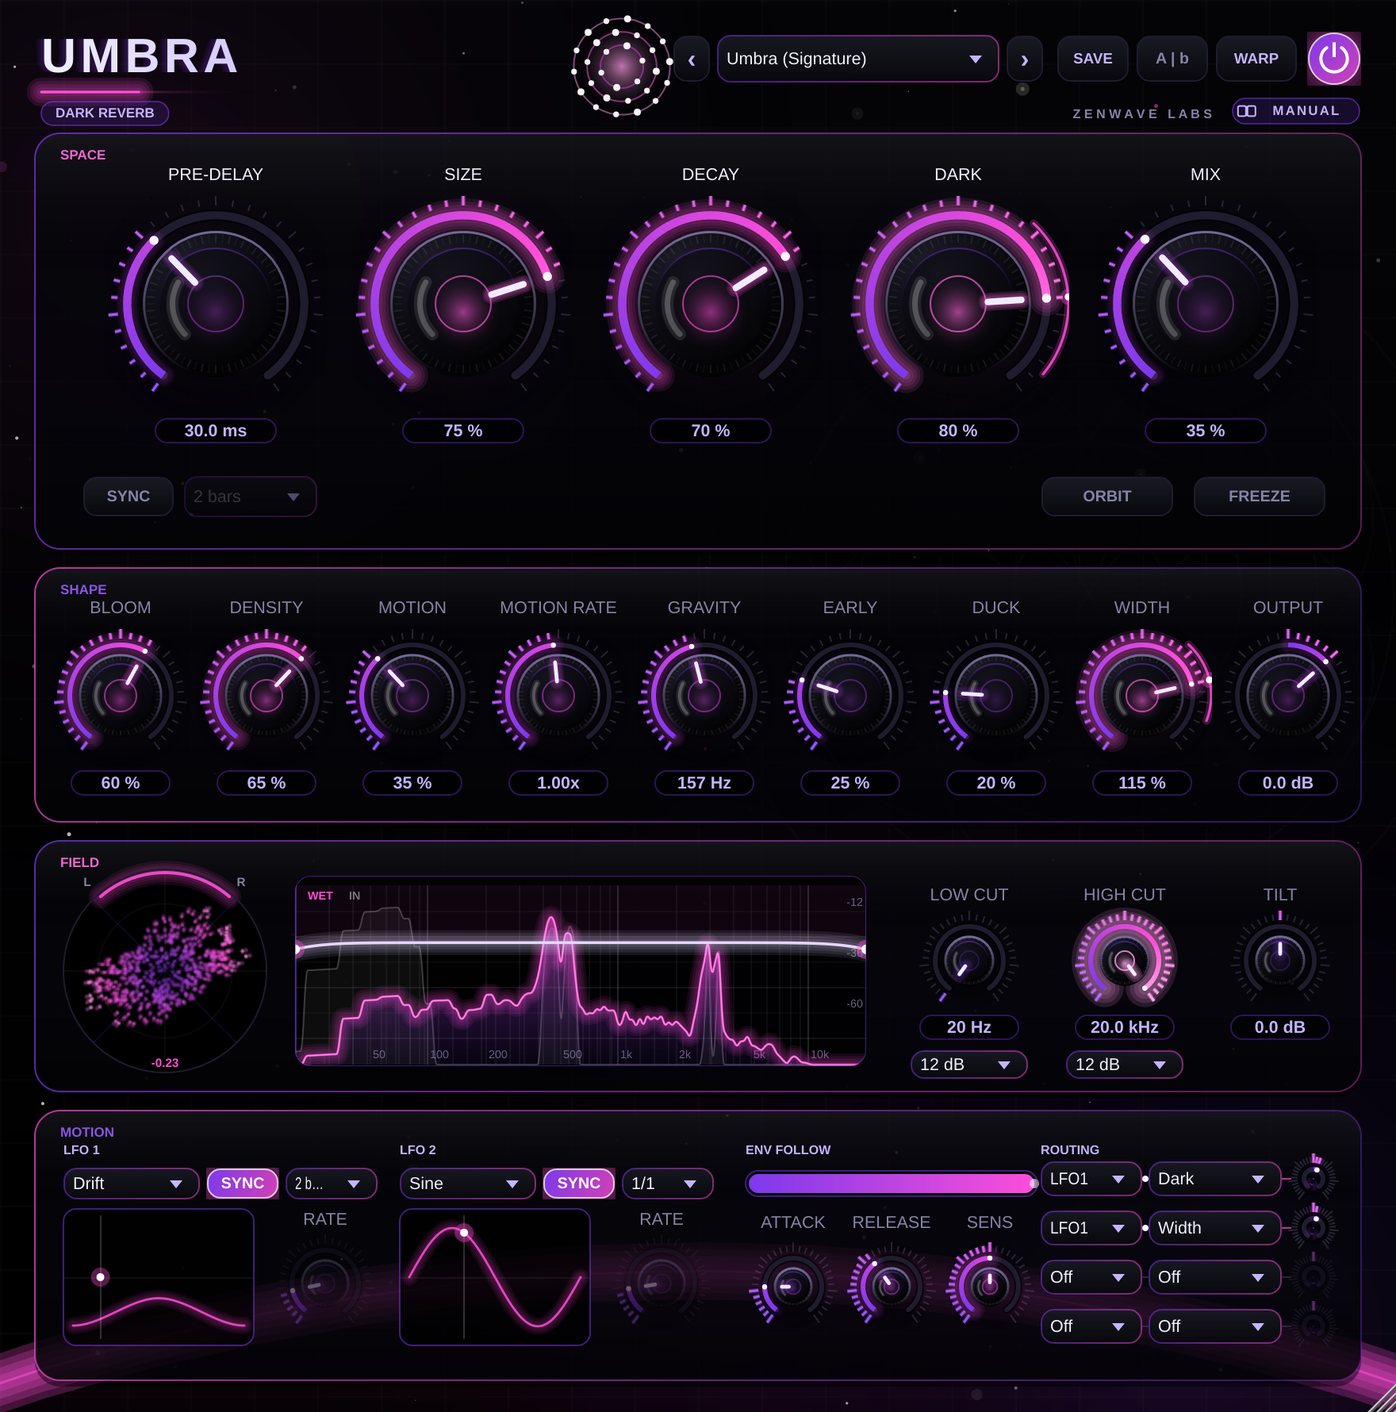
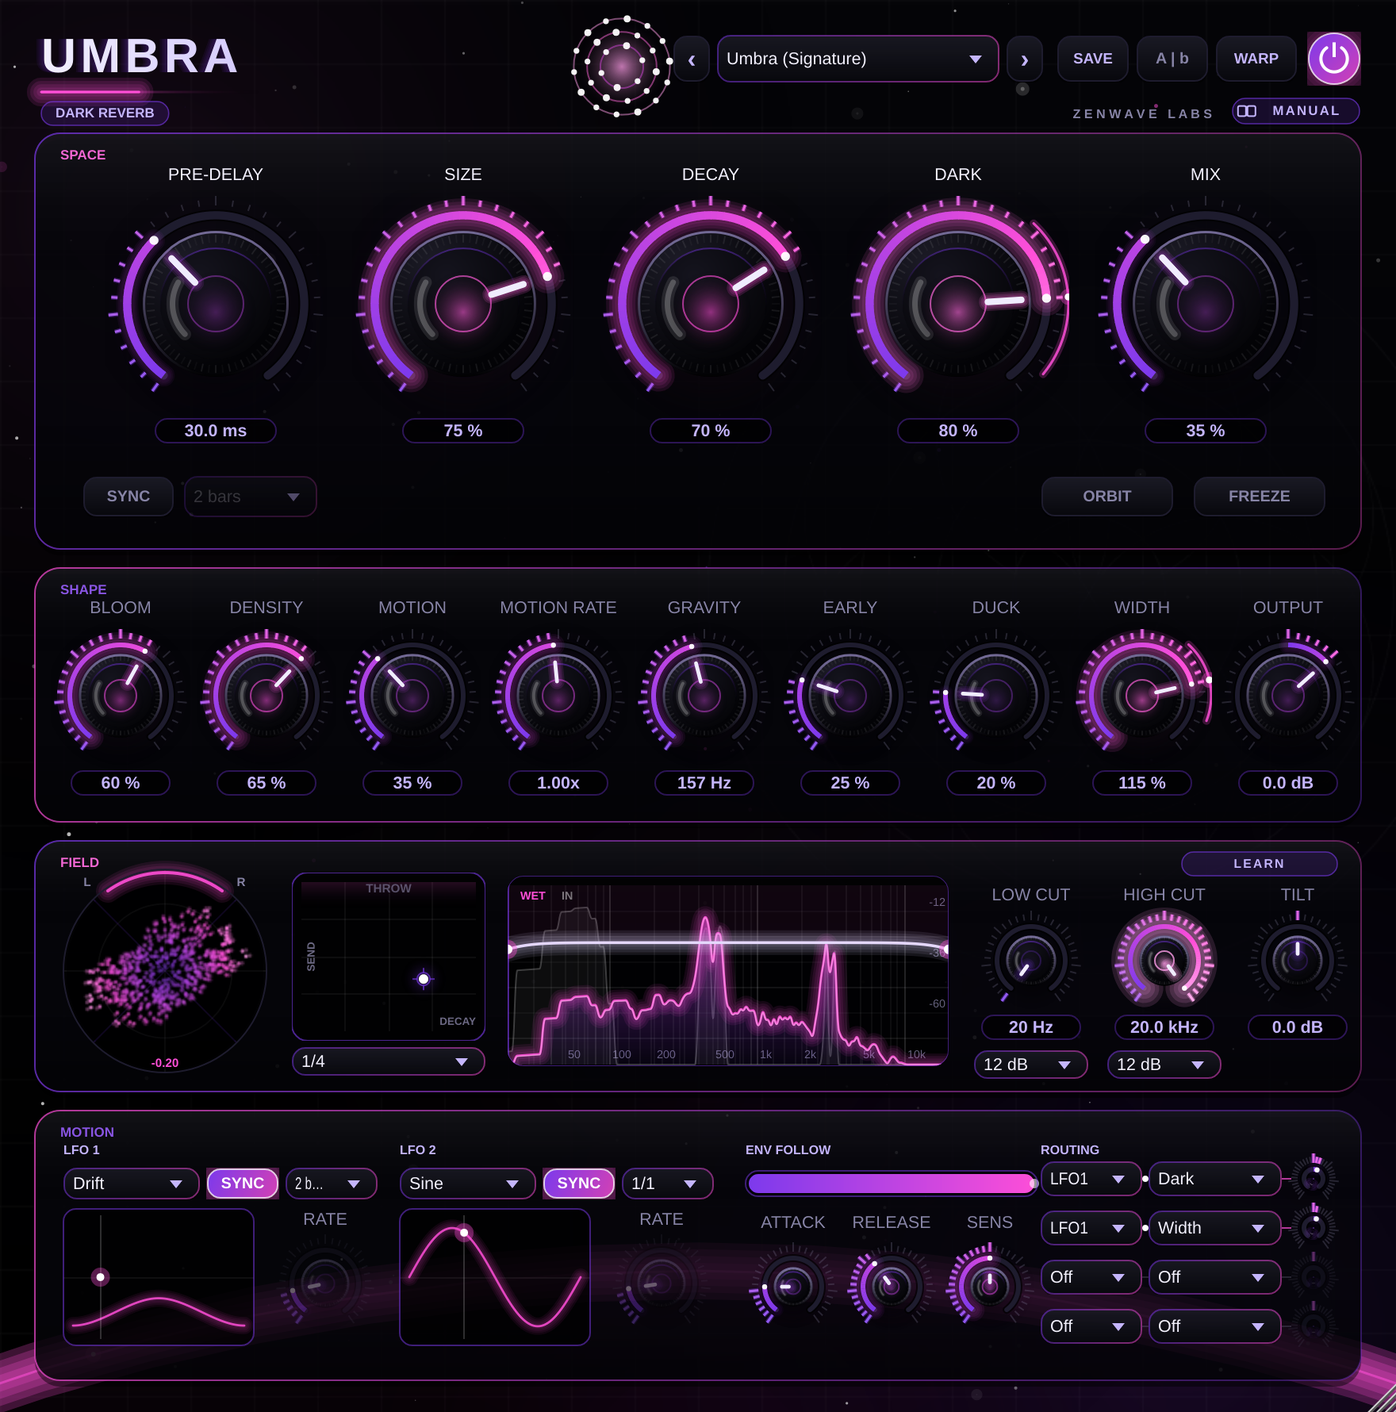
LEARN (auto-place cuts/Gravity from the track), Umbra perform pad (decay x send), chip glyph fix
Claude-Session: https://claude.ai/code/session_017QkTniK1NEuAZXzt6zeDH9

Changed region(s): [[0.1875, 0.5871, 0.9688, 0.7725]]

diff --git a/plugins/umbra/src/PluginEditor.cpp b/plugins/umbra/src/PluginEditor.cpp
@@ -40,7 +40,15 @@ UmbraAudioProcessorEditor::UmbraAudioProcessorEditor(UmbraAudioProcessor& p)
 
     addAndMakeVisible(presetBar);
     addAndMakeVisible(modPanel);
+    addAndMakeVisible(pad);
+    addAndMakeVisible(glideBox); glideBox.addItemList(zwui::PadIDs::glideNames(), 1);
+    glideBox.setTooltip("Glide: how long the pad takes to return home after you let go (synced)");
+    glideAttach = std::make_unique<juce::AudioProcessorValueTreeState::ComboBoxAttachment>(processor.apvts, zwui::PadIDs::glide, glideBox);
     addAndMakeVisible(orbitButton);
+    addAndMakeVisible(learnButton);
+    learnButton.getProperties().set("chip", true);
+    learnButton.setTooltip("Learn: play the track for 6 seconds. Sets the wet Low Cut just above your sub and the High Cut where your top end ends" + juce::String(""" + (' , and Gravity under the sub' if plug=='umbra' else '') + """) + ", so the effect sits in this track.");
+    learnButton.onClick = [this] { if (! learner.isActive()) learner.start(6.0f); };
     orbitAttach = std::make_unique<juce::AudioProcessorValueTreeState::ButtonAttachment>(processor.apvts, zwui::OrbitBus::orbitParamId, orbitButton);
     orbitButton.setTooltip("Orbit: link with every other ZenWave plugin that has Orbit on. Freeze one, freeze them all - Drift's loop and Umbra's tail lock together.");
     allKnobs = { &preDelay, &size, &decay, &dark, &mix, &density, &motion, &gravity, &early, &duck, &width, &output, &motionRate, &bloom, &lowCut, &highCut, &tilt };
@@ -48,7 +56,7 @@ UmbraAudioProcessorEditor::UmbraAudioProcessorEditor(UmbraAudioProcessor& p)
 
     // Built-in manual + tooltips
     addAndMakeVisible(helpButton);
-    helpButton.getProperties().set("chip", true);
+    helpButton.getProperties().set("chip", true); helpButton.getProperties().set("book", true);
     helpButton.setTooltip("Manual: what every knob does, quick start and recipes");
     helpButton.onClick = [this] { manual.show(); };
     addChildComponent(manual);
@@ -113,6 +121,10 @@ void UmbraAudioProcessorEditor::timerCallback()
     scope.update(processor.stereo);
     presetBar.sync();
     modPanel.tick();
+    if (learner.feed(analyserIn.levels, dt)) applyLearn();
+    pad.setHome(float(decay.slider.getValue()), float(mix.slider.getValue()));
+    pad.tick();
+    learnButton.setButtonText(learner.isActive() ? "LEARNING " + juce::String(int(learner.progress() * 100)) + "%" : "LEARN");
     { const int n = processor.orbitLink.peers.load(); orbitButton.setButtonText(orbitButton.getToggleState() && n > 1 ? "ORBIT x" + juce::String(n) : "ORBIT"); }
     syncModRings();
     const bool msync = motionSyncButton.getToggleState();
@@ -137,7 +149,7 @@ void UmbraAudioProcessorEditor::paint(juce::Graphics& g)
     scope.draw(g, juce::Rectangle<float>(40 * s, 548 * s, 128 * s, 128 * s), lnf.accent, lnf.accent2, processor.motion.pulse);
     zwui::EqCurve eq { float(lowCut.slider.getValue()), float(highCut.slider.getValue()),
                        juce::jmax(0, lowSlopeBox.getSelectedId() - 1), juce::jmax(0, highSlopeBox.getSelectedId() - 1), float(tilt.slider.getValue()) };
-    zwui::drawEqField(g, juce::Rectangle<float>(186 * s, 552 * s, 360 * s, 120 * s), analyser, &analyserIn, eq, lnf.accent, lnf.accent2, processor.motion.pulse);
+    zwui::drawEqField(g, juce::Rectangle<float>(320 * s, 552 * s, 278 * s, 120 * s), analyser, &analyserIn, eq, lnf.accent, lnf.accent2, processor.motion.pulse);
     zwui::drawOrbit(g, { 392 * s, 42 * s }, 24 * s, processor.motion, lnf.accent, lnf.accent2);
 }
 
@@ -153,6 +165,7 @@ void UmbraAudioProcessorEditor::resized()
     powerButton.setBounds(S(824), S(20), S(34), S(34));
     freezeButton.setBounds(S(752), S(300), S(84), S(26));
     orbitButton.setBounds(S(656), S(300), S(84), S(26));
+    learnButton.setBounds(S(744), S(536), S(100), S(17));
     modPanel.setBounds(S(22), S(700), S(836), S(170));
     modPanel.layoutScaled(s);
 
@@ -167,9 +180,22 @@ void UmbraAudioProcessorEditor::resized()
     x = S(32);
     for (auto* k : smalls) { k->layout(x, S(392), S(88), S(110), S(14)); x += S(92); }
 
+    pad.setBounds(S(184), S(550), S(122), S(106));
+    glideBox.setBounds(S(184), S(660), S(122), S(18));
     zwui::Knob* tone[] = { &lowCut, &highCut, &tilt };
-    x = S(566);
-    for (auto* k : tone) { k->layout(x, S(572), S(90), S(84), S(12)); x += S(98); }
-    lowSlopeBox.setBounds(S(574), S(662), S(74), S(18));
-    highSlopeBox.setBounds(S(672), S(662), S(74), S(18));
+    x = S(610);
+    for (auto* k : tone) { k->layout(x, S(572), S(80), S(84), S(12)); x += S(84); }
+    lowSlopeBox.setBounds(S(614), S(662), S(72), S(18));
+    highSlopeBox.setBounds(S(698), S(662), S(72), S(18));
+}
+
+void UmbraAudioProcessorEditor::applyLearn()
+{
+    const auto r = learner.result;
+    if (! r.valid) return;
+    auto set = [this](const char* id, float plain) { if (auto* p = processor.apvts.getParameter(id)) { p->beginChangeGesture(); p->setValueNotifyingHost(p->convertTo0to1(plain)); p->endChangeGesture(); } };
+    set(ParamIDs::lowCut,  juce::jlimit(20.0f, 400.0f, r.subHz * 1.6f));          // repeats/tails stay off the sub
+    set(ParamIDs::highCut, juce::jlimit(3000.0f, 20000.0f, r.rollOffHz * 0.85f)); // nothing above where the track ends
+    set(ParamIDs::lowSlope, 2.0f);
+    set(ParamIDs::gravity, juce::jlimit(0.0f, 1.0f, (r.subHz * 1.5f - 40.0f) / 260.0f));   // 0..1 -> 40..300 Hz, sub passes dry
 }

diff --git a/libs/zenwave_ui/include/zenwave_ui/ZenWaveUI.h b/libs/zenwave_ui/include/zenwave_ui/ZenWaveUI.h
@@ -341,14 +341,18 @@ public:
             const float h = r.getHeight(), bx = r.getX() + h * 0.55f, by = r.getCentreY();
             const auto col = hover || down ? juce::Colours::white : accentHi;
             g.setColour(col);
-            juce::Path book;
-            book.addRoundedRectangle(bx - 5.5f, by - 3.2f, 5.0f, 6.4f, 1.0f);
-            book.addRoundedRectangle(bx + 0.5f, by - 3.2f, 5.0f, 6.4f, 1.0f);
-            g.strokePath(book, juce::PathStrokeType(1.0f));
-            g.drawLine(bx, by - 3.2f, bx, by + 3.2f, 1.0f);
+            const bool book = bool(b.getProperties()["book"]);
+            if (book)
+            {
+                juce::Path bk;
+                bk.addRoundedRectangle(bx - 5.5f, by - 3.2f, 5.0f, 6.4f, 1.0f);
+                bk.addRoundedRectangle(bx + 0.5f, by - 3.2f, 5.0f, 6.4f, 1.0f);
+                g.strokePath(bk, juce::PathStrokeType(1.0f));
+                g.drawLine(bx, by - 3.2f, bx, by + 3.2f, 1.0f);
+            }
             juce::Font f(juce::FontOptions(h * 0.52f, juce::Font::bold)); f.setExtraKerningFactor(0.12f);
             g.setFont(f);
-            g.drawText(b.getButtonText(), r.withTrimmedLeft(h * 1.1f).withTrimmedRight(h * 0.35f), juce::Justification::centred);
+            g.drawText(b.getButtonText(), book ? r.withTrimmedLeft(h * 1.1f).withTrimmedRight(h * 0.35f) : r, juce::Justification::centred);
             return;
         }
         g.setFont(juce::Font(juce::FontOptions(b.getButtonText().length() <= 1 ? 18.0f : 10.5f, juce::Font::bold)));
@@ -686,6 +690,47 @@ private:
 };
 
 struct EqCurve { float lowCutHz, highCutHz; int lowSlope, highSlope; float tilt; };
+
+// LEARN: listens to the dry input for a few seconds and finds where the sub fundamental sits and
+// where the top end rolls off, so the plugin can place its cuts (and Gravity) around *this* track.
+class Learner
+{
+public:
+    struct Result { float subHz = 50.0f, rollOffHz = 16000.0f; bool valid = false; };
+    void start(float seconds) { avg.fill(0.0f); frames = 0; target = seconds; elapsed = 0.0f; active = true; }
+    bool isActive() const { return active; }
+    float progress() const { return active ? juce::jlimit(0.0f, 1.0f, elapsed / target) : 0.0f; }
+    // Feed the input analyser's bins each editor tick; returns true on the tick learning completes
+    bool feed(const std::array<float, SpectrumAnalyser::kBins>& levels, float dt)
+    {
+        if (! active) return false;
+        for (int b = 0; b < SpectrumAnalyser::kBins; ++b) avg[size_t(b)] += levels[size_t(b)];
+        ++frames; elapsed += dt;
+        if (elapsed < target) return false;
+        active = false;
+        for (auto& v : avg) v /= float(juce::jmax(1, frames));
+        // sub fundamental: strongest bin between 25 and 140 Hz
+        int best = -1; float bestV = 0.0f;
+        for (int b = 0; b < SpectrumAnalyser::kBins; ++b)
+        {
+            const float hz = SpectrumAnalyser::freqForBin(b);
+            if (hz < 25.0f || hz > 140.0f) continue;
+            if (avg[size_t(b)] > bestV) { bestV = avg[size_t(b)]; best = b; }
+        }
+        float peak = 0.0f; for (auto v : avg) peak = juce::jmax(peak, v);
+        result.valid = peak > 0.15f;      // something was actually playing
+        result.subHz = best >= 0 ? SpectrumAnalyser::freqForBin(best) : 50.0f;
+        // roll-off: highest bin still within 36 dB (0.43 normalised) of the loudest bin
+        result.rollOffHz = 16000.0f;
+        for (int b = SpectrumAnalyser::kBins - 1; b >= 0; --b)
+            if (avg[size_t(b)] > peak - 36.0f / 84.0f) { result.rollOffHz = SpectrumAnalyser::freqForBin(b); break; }
+        return true;
+    }
+    Result result;
+private:
+    std::array<float, SpectrumAnalyser::kBins> avg {};
+    int frames = 0; float target = 6.0f, elapsed = 0.0f; bool active = false;
+};
 
 // The "field": a real-time audio spectrum (wet in colour, dry input as a ghost line, peak-hold
 // trace) with the EQ response drawn over it and cutoff handles.

diff --git a/plugins/drift/src/PluginEditor.cpp b/plugins/drift/src/PluginEditor.cpp
@@ -43,6 +43,10 @@ DriftAudioProcessorEditor::DriftAudioProcessorEditor(DriftAudioProcessor& p)
     addAndMakeVisible(presetBar);
     addAndMakeVisible(modPanel);
     addAndMakeVisible(orbitButton);
+    addAndMakeVisible(learnButton);
+    learnButton.getProperties().set("chip", true);
+    learnButton.setTooltip("Learn: play the track for 6 seconds. Sets the wet Low Cut just above your sub and the High Cut where your top end ends" + juce::String(""" + (' , and Gravity under the sub' if plug=='umbra' else '') + """) + ", so the effect sits in this track.");
+    learnButton.onClick = [this] { if (! learner.isActive()) learner.start(6.0f); };
     orbitAttach = std::make_unique<juce::AudioProcessorValueTreeState::ButtonAttachment>(processor.apvts, zwui::OrbitBus::orbitParamId, orbitButton);
     orbitButton.setTooltip("Orbit: link with every other ZenWave plugin that has Orbit on. Freeze one, freeze them all - Drift's loop and Umbra's tail lock together.");
     addAndMakeVisible(pad);
@@ -54,7 +58,7 @@ DriftAudioProcessorEditor::DriftAudioProcessorEditor(DriftAudioProcessor& p)
 
     // Built-in manual + tooltips
     addAndMakeVisible(helpButton);
-    helpButton.getProperties().set("chip", true);
+    helpButton.getProperties().set("chip", true); helpButton.getProperties().set("book", true);
     helpButton.setTooltip("Manual: what every knob does, quick start and recipes");
     helpButton.onClick = [this] { manual.show(); };
     addChildComponent(manual);
@@ -122,6 +126,8 @@ void DriftAudioProcessorEditor::timerCallback()
     scope.update(processor.stereo);
     presetBar.sync();
     modPanel.tick();
+    if (learner.feed(analyserIn.levels, dt)) applyLearn();
+    learnButton.setButtonText(learner.isActive() ? "LEARNING " + juce::String(int(learner.progress() * 100)) + "%" : "LEARN");
     { const int n = processor.orbitLink.peers.load(); orbitButton.setButtonText(orbitButton.getToggleState() && n > 1 ? "ORBIT x" + juce::String(n) : "ORBIT"); }
     pad.setHome(processor.padXForTime(float(time.slider.getValue())), processor.padYForFeedback(float(feedback.slider.getValue())));
     pad.setColumns(syncButton.getToggleState() ? 9 : 0);
@@ -169,6 +175,7 @@ void DriftAudioProcessorEditor::resized()
     powerButton.setBounds(S(824), S(20), S(34), S(34));
     freezeButton.setBounds(S(752), S(300), S(84), S(26));
     orbitButton.setBounds(S(656), S(300), S(84), S(26));
+    learnButton.setBounds(S(744), S(536), S(100), S(17));
     modPanel.setBounds(S(22), S(700), S(836), S(170));
     modPanel.layoutScaled(s);
 
@@ -195,4 +202,14 @@ void DriftAudioProcessorEditor::resized()
     for (auto* k : tone) { k->layout(x, S(572), S(80), S(84), S(12)); x += S(84); }
     lowSlopeBox.setBounds(S(614), S(662), S(72), S(18));
     highSlopeBox.setBounds(S(698), S(662), S(72), S(18));
+}
+
+void DriftAudioProcessorEditor::applyLearn()
+{
+    const auto r = learner.result;
+    if (! r.valid) return;
+    auto set = [this](const char* id, float plain) { if (auto* p = processor.apvts.getParameter(id)) { p->beginChangeGesture(); p->setValueNotifyingHost(p->convertTo0to1(plain)); p->endChangeGesture(); } };
+    set(ParamIDs::lowCut,  juce::jlimit(20.0f, 400.0f, r.subHz * 1.6f));          // repeats/tails stay off the sub
+    set(ParamIDs::highCut, juce::jlimit(3000.0f, 20000.0f, r.rollOffHz * 0.85f)); // nothing above where the track ends
+    set(ParamIDs::lowSlope, 2.0f);
 }

diff --git a/plugins/umbra/src/PluginProcessor.cpp b/plugins/umbra/src/PluginProcessor.cpp
@@ -18,6 +18,8 @@ UmbraAudioProcessor::UmbraAudioProcessor()
 {
     for (int i = 0; i < 23; ++i) p[i] = apvts.getRawParameterValue(kIds[i]);
     mod.attach(apvts, umbraModTargets());
+    pad.attach(apvts);
+    bank.setAlwaysLocked({ zwui::PadIDs::x, zwui::PadIDs::y, zwui::PadIDs::hold, zwui::PadIDs::glide });
     bank.setAlwaysLocked({ ParamIDs::power, ParamIDs::output, ParamIDs::mix, ParamIDs::freeze, zwui::OrbitBus::orbitParamId });
     bank.setSafeRange(ParamIDs::lowCut, 20.0f, 400.0f);
     bank.setSafeRange(ParamIDs::highCut, 2500.0f, 20000.0f);
@@ -76,6 +78,7 @@ APVTS::ParameterLayout UmbraAudioProcessor::createLayout()
     params.push_back(pct(ParamIDs::bloom, "Bloom", 0.0f));
     zwui::addModParams(params, umbraModTargets());
     zwui::addOrbitParam(params);
+    zwui::addPadParams(params);
     return { params.begin(), params.end() };
 }
 
@@ -84,6 +87,7 @@ void UmbraAudioProcessor::prepareToPlay(double sampleRate, int samplesPerBlock)
     currentSampleRate = sampleRate;
     engine.prepare(sampleRate, samplesPerBlock);
     mod.prepare(sampleRate);
+    pad.prepare(sampleRate);
     wetScratch.setSize(2, samplesPerBlock);
     power.prepare(sampleRate, samplesPerBlock, 2);
     meterIn.prepare(sampleRate); meterOut.prepare(sampleRate);
@@ -102,9 +106,13 @@ void UmbraAudioProcessor::updateEngineParams()
 {
     zw::UmbraParams u;
     const auto M = [this](int t) { return mod.value(t); };
-    u.preDelayMs = M(ModT::PreDelay); u.size = M(ModT::Size);     u.decay = M(ModT::Decay); u.dark  = M(ModT::Dark);
+    float decay = M(ModT::Decay), mix = M(ModT::Mix);
+    const float pa = pad.eased.load();
+    if (pa > 0.0001f) { decay = juce::jmap(pa, decay, pad.x()); mix = juce::jmap(pa, mix, pad.y()); }
+    pad.effX.store(decay); pad.effY.store(mix);
+    u.preDelayMs = M(ModT::PreDelay); u.size = M(ModT::Size);     u.decay = decay;          u.dark  = M(ModT::Dark);
     u.density    = M(ModT::Density);  u.motion = M(ModT::Motion); u.gravity = M(ModT::Gravity); u.early = M(ModT::Early);
-    u.duck       = M(ModT::Duck);     u.width = M(ModT::Width);   u.mix   = M(ModT::Mix);   u.output = p[11]->load();
+    u.duck       = M(ModT::Duck);     u.width = M(ModT::Width);   u.mix   = mix;            u.output = p[11]->load();
     u.freeze     = p[12]->load() > 0.5f;
     // Motion sync: slowest reverb LFO (0.09 Hz base) locks to one cycle per division
     u.motionRate = p[14]->load() > 0.5f
@@ -135,6 +143,7 @@ void UmbraAudioProcessor::processBlock(juce::AudioBuffer<float>& buffer, juce::M
     {
         const int len = juce::jmin(kSub, n - start);
         mod.process(buffer.getReadPointer(0, start), numOut >= 2 ? buffer.getReadPointer(1, start) : nullptr, len, hostBpm, ppq, playing);
+        pad.process(len, hostBpm);
         updateEngineParams();
         if (wetScratch.getNumSamples() >= n) engine.setWetTap(wetScratch.getWritePointer(0, start), wetScratch.getWritePointer(1, start));
         if (numOut >= 2) engine.process(buffer.getWritePointer(0, start), buffer.getWritePointer(1, start), len);

diff --git a/plugins/umbra/src/Manual.h b/plugins/umbra/src/Manual.h
@@ -34,7 +34,12 @@ namespace UmbraManual
               { "WIDTH", "Stereo width of the wet signal. 100 % = natural, up to 150 % = extra wide, 0 = mono.", "width" },
               { "OUTPUT", "Output trim, -24 to +12 dB.", "output" } } });
 
-        v.push_back(zwui::fieldSection());
+        {
+            auto f = zwui::fieldSection();
+            f.entries.insert(f.entries.begin(), { "PERFORM PAD", "The throw surface. Drag: across = decay, up = send (mix). Let go and the space glides back to your knob settings over the GLIDE division - swell a word or a snare into a cathedral and have it fall away in time. Recorded as Pad X / Pad Y / Pad Hold automation; map a controller pad to Pad Hold." });
+            f.entries.insert(f.entries.begin(), { "LEARN", "Play the track and press LEARN. For six seconds the plugin listens to the dry input, then places the wet Low Cut just above your sub fundamental, the High Cut where your top end actually ends, and Gravity so the sub stays dry - the effect sits in *this* track instead of a generic one. Fine-tune from there." });
+            v.push_back(f);
+        }
         v.push_back(zwui::motionSection());
         v.push_back(zwui::presetSection());
         v.push_back({ "RECIPES", "",

diff --git a/plugins/drift/src/Manual.h b/plugins/drift/src/Manual.h
@@ -38,6 +38,7 @@ namespace DriftManual
         {
             auto f = zwui::fieldSection();
             f.entries.insert(f.entries.begin(), { "PERFORM PAD", "The throw surface. Drag: across = delay time (snapped to divisions when SYNC is on), up = feedback (the pink zone at the top self-oscillates). Let go and the sound glides back to your knob settings over the GLIDE division - a perfect, repeatable throw every time. Your DAW records it as Pad X / Pad Y / Pad Hold automation, and you can map a controller pad to Pad Hold." });
+            f.entries.insert(f.entries.begin(), { "LEARN", "Play the track and press LEARN. For six seconds the plugin listens to the dry input, then places the wet Low Cut just above your sub fundamental and the High Cut where your top end actually ends - the effect sits in *this* track instead of a generic one. Fine-tune from there." });
             v.push_back(f);
         }
         v.push_back(zwui::motionSection());

diff --git a/plugins/umbra/src/PluginEditor.h b/plugins/umbra/src/PluginEditor.h
@@ -34,6 +34,9 @@ private:
     zwui::GalaxyScope scope;
     zwui::ModPanel modPanel { processor.apvts, processor.mod, lnf };
     zwui::PresetBar presetBar;
+    zwui::PerformPad pad { processor.apvts, processor.pad, lnf, "DECAY", "SEND" };
+    juce::ComboBox glideBox;
+    std::unique_ptr<juce::AudioProcessorValueTreeState::ComboBoxAttachment> glideAttach;
 
     juce::ToggleButton freezeButton { "FREEZE" }, motionSyncButton { "SYNC" }, powerButton;
     juce::ComboBox motionDivBox;
@@ -42,6 +45,9 @@ private:
     double lastTick = 0.0;
     std::vector<zwui::Knob*> allKnobs;
     juce::ToggleButton orbitButton { "ORBIT" };
+    juce::TextButton learnButton { "LEARN" };
+    zwui::Learner learner;
+    void applyLearn();
     std::unique_ptr<juce::AudioProcessorValueTreeState::ButtonAttachment> orbitAttach;
     juce::TextButton helpButton { "MANUAL" };
     juce::TooltipWindow tooltips { this, 650 };

diff --git a/plugins/umbra/src/PluginProcessor.h b/plugins/umbra/src/PluginProcessor.h
@@ -5,6 +5,7 @@
 #include <zenwave_ui/Modulation.h>
 #include <zenwave_ui/PresetBank.h>
 #include <zenwave_ui/Orbit.h>
+#include <zenwave_ui/PerformPad.h>
 #include "Presets.h"
 
 namespace ParamIDs
@@ -80,6 +81,7 @@ public:
     zwui::StereoTap stereo;
     zwui::ModMatrix mod;
     zwui::OrbitLink orbitLink { apvts, ParamIDs::freeze };
+    zwui::PadEngine pad;   // X = decay, Y = mix (a reverb "throw")
     juce::AudioBuffer<float> wetScratch;   // post-EQ wet signal for the Field analyser
     zwui::PresetBank bank { apvts, "Umbra" };
     double currentSampleRate = 48000.0;

diff --git a/plugins/drift/src/PluginEditor.h b/plugins/drift/src/PluginEditor.h
@@ -45,6 +45,9 @@ private:
     double lastTick = 0.0;
     std::vector<zwui::Knob*> allKnobs;
     juce::ToggleButton orbitButton { "ORBIT" };
+    juce::TextButton learnButton { "LEARN" };
+    zwui::Learner learner;
+    void applyLearn();
     std::unique_ptr<juce::AudioProcessorValueTreeState::ButtonAttachment> orbitAttach;
     juce::TextButton helpButton { "MANUAL" };
     juce::TooltipWindow tooltips { this, 650 };

diff --git a/README.md b/README.md
@@ -55,3 +55,10 @@ Drift (free) → Umbra (dark reverb, $49) → Halo (shimmer reverb, $49) → Cor
 - **MOTION card** — two LFOs (sine / triangle / saw up / saw down / square / random / drift; free-running or tempo-synced and phase-locked to the host) and an envelope follower (attack / release / sensitivity), routed through four slots to any continuous knob. Modulated knobs show a range arc and a live cyan dot.
 - **Presets** — ‹ › browse, **SAVE** writes a user preset to `Documents/ZenWave Labs/<Plugin>/Presets/`, **A | B** compare (right-click copies the current slot to the other), **WARP** randomises (gentle; Shift = bolder; Cmd/Ctrl = anywhere). Right-click a knob to lock it from Warp or reset it.
 - **Field** — real-time spectrum (4096-pt FFT, 160 log bins, peak hold, dry-input ghost) with the EQ response and cutoff handles overlaid.
+
+## Perform, Orbit, Learn (v0.5)
+
+- **Perform pad** (Field card) - drag to throw (Drift: time x feedback, snapped to divisions when synced; Umbra: decay x send), release and it glides home over a synced division. Pad X / Y / Hold are automatable and MIDI-mappable.
+- **ORBIT** - every ZenWave plugin with Orbit on shares one Freeze over a shared-memory bus; the button shows the peer count.
+- **LEARN** - listens to the dry input for 6 s and places Low Cut above your sub, High Cut where the top end ends (Umbra also sets Gravity).
+- Manual lives in the MANUAL chip, top right; everything has a tooltip.
